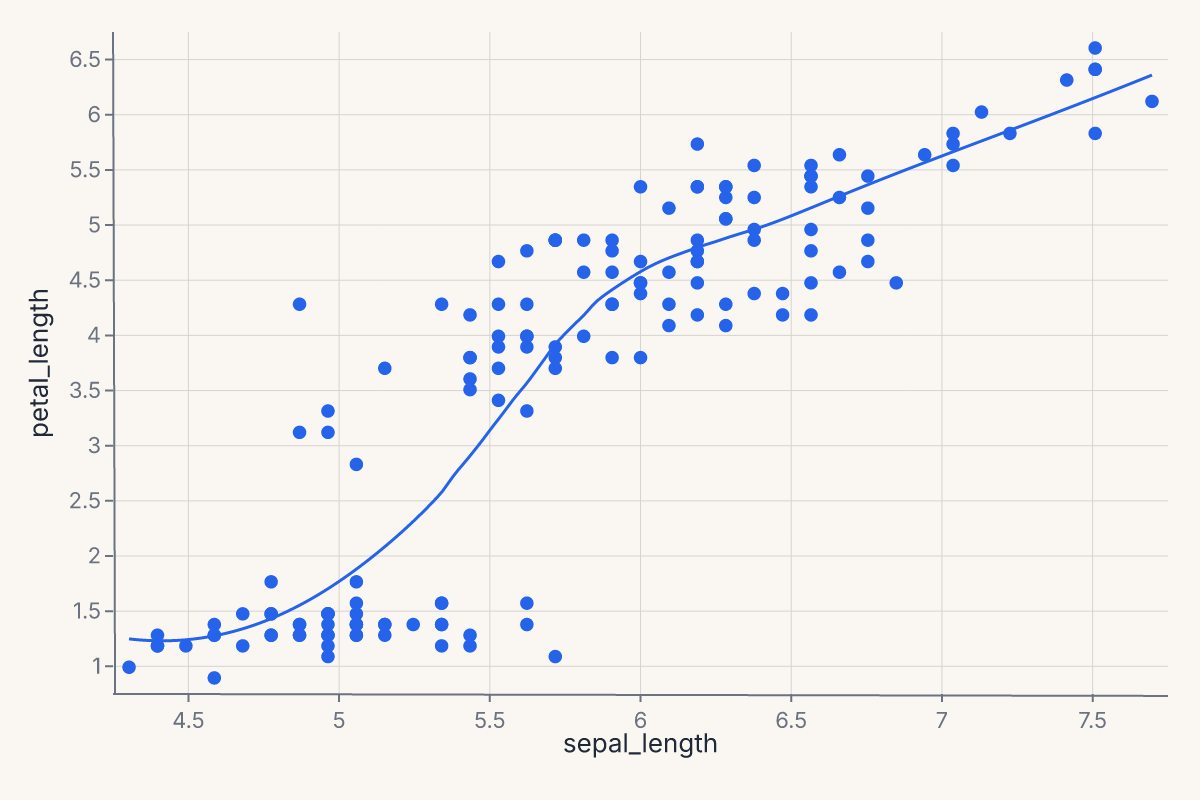
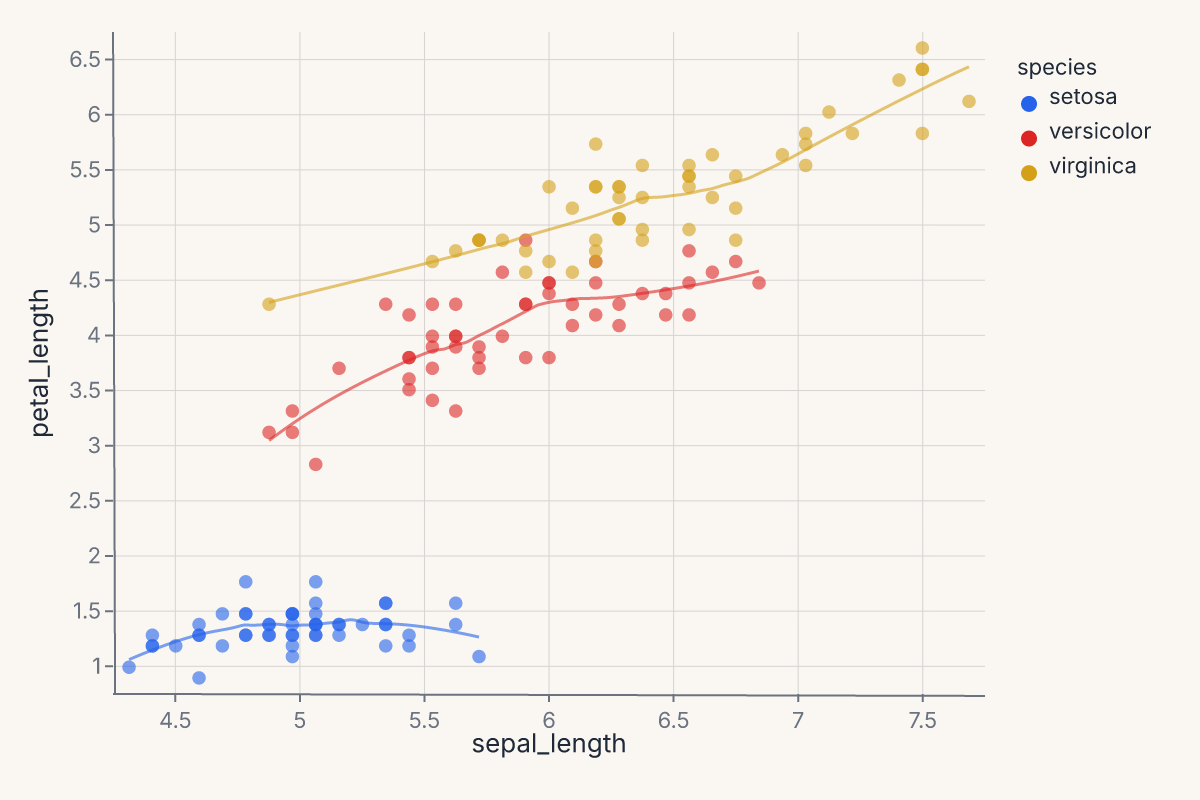
docs: color LayerChart/ConcatChart examples by species to match page style

diff --git a/docs/site/guide/composition.md b/docs/site/guide/composition.md
@@ -294,8 +294,8 @@ raw = load_iris()
 iris = pl.DataFrame(raw.data, schema=["sepal_length", "sepal_width", "petal_length", "petal_width"]).with_columns(
     species=pl.Series([raw.target_names[t] for t in raw.target])
 )
-scatter = fm.Chart(iris).mark_point().encode(x="sepal_length", y="petal_length")
-trend = fm.Chart(iris).mark_smooth().encode(x="sepal_length", y="petal_length")
+scatter = fm.Chart(iris).mark_point(opacity=0.6).encode(x="sepal_length", y="petal_length", color="species:N")
+trend = fm.Chart(iris).mark_smooth(groupby="species").encode(x="sepal_length", y="petal_length", color="species:N")
 overlay = fm.LayerChart(scatter, trend)
 assert overlay.show_svg().startswith("<svg")
 ```
@@ -318,7 +318,7 @@ iris = pl.DataFrame(raw.data, schema=["sepal_length", "sepal_width", "petal_leng
     species=pl.Series([raw.target_names[t] for t in raw.target])
 )
 charts = [
-    fm.Chart(iris).mark_point().encode(x=col, y="petal_length")
+    fm.Chart(iris).mark_point(opacity=0.6).encode(x=col, y="petal_length", color="species:N")
     for col in ["sepal_length", "sepal_width", "petal_width"]
 ]
 grid = fm.ConcatChart(*charts, columns=2, spacing=15.0)
